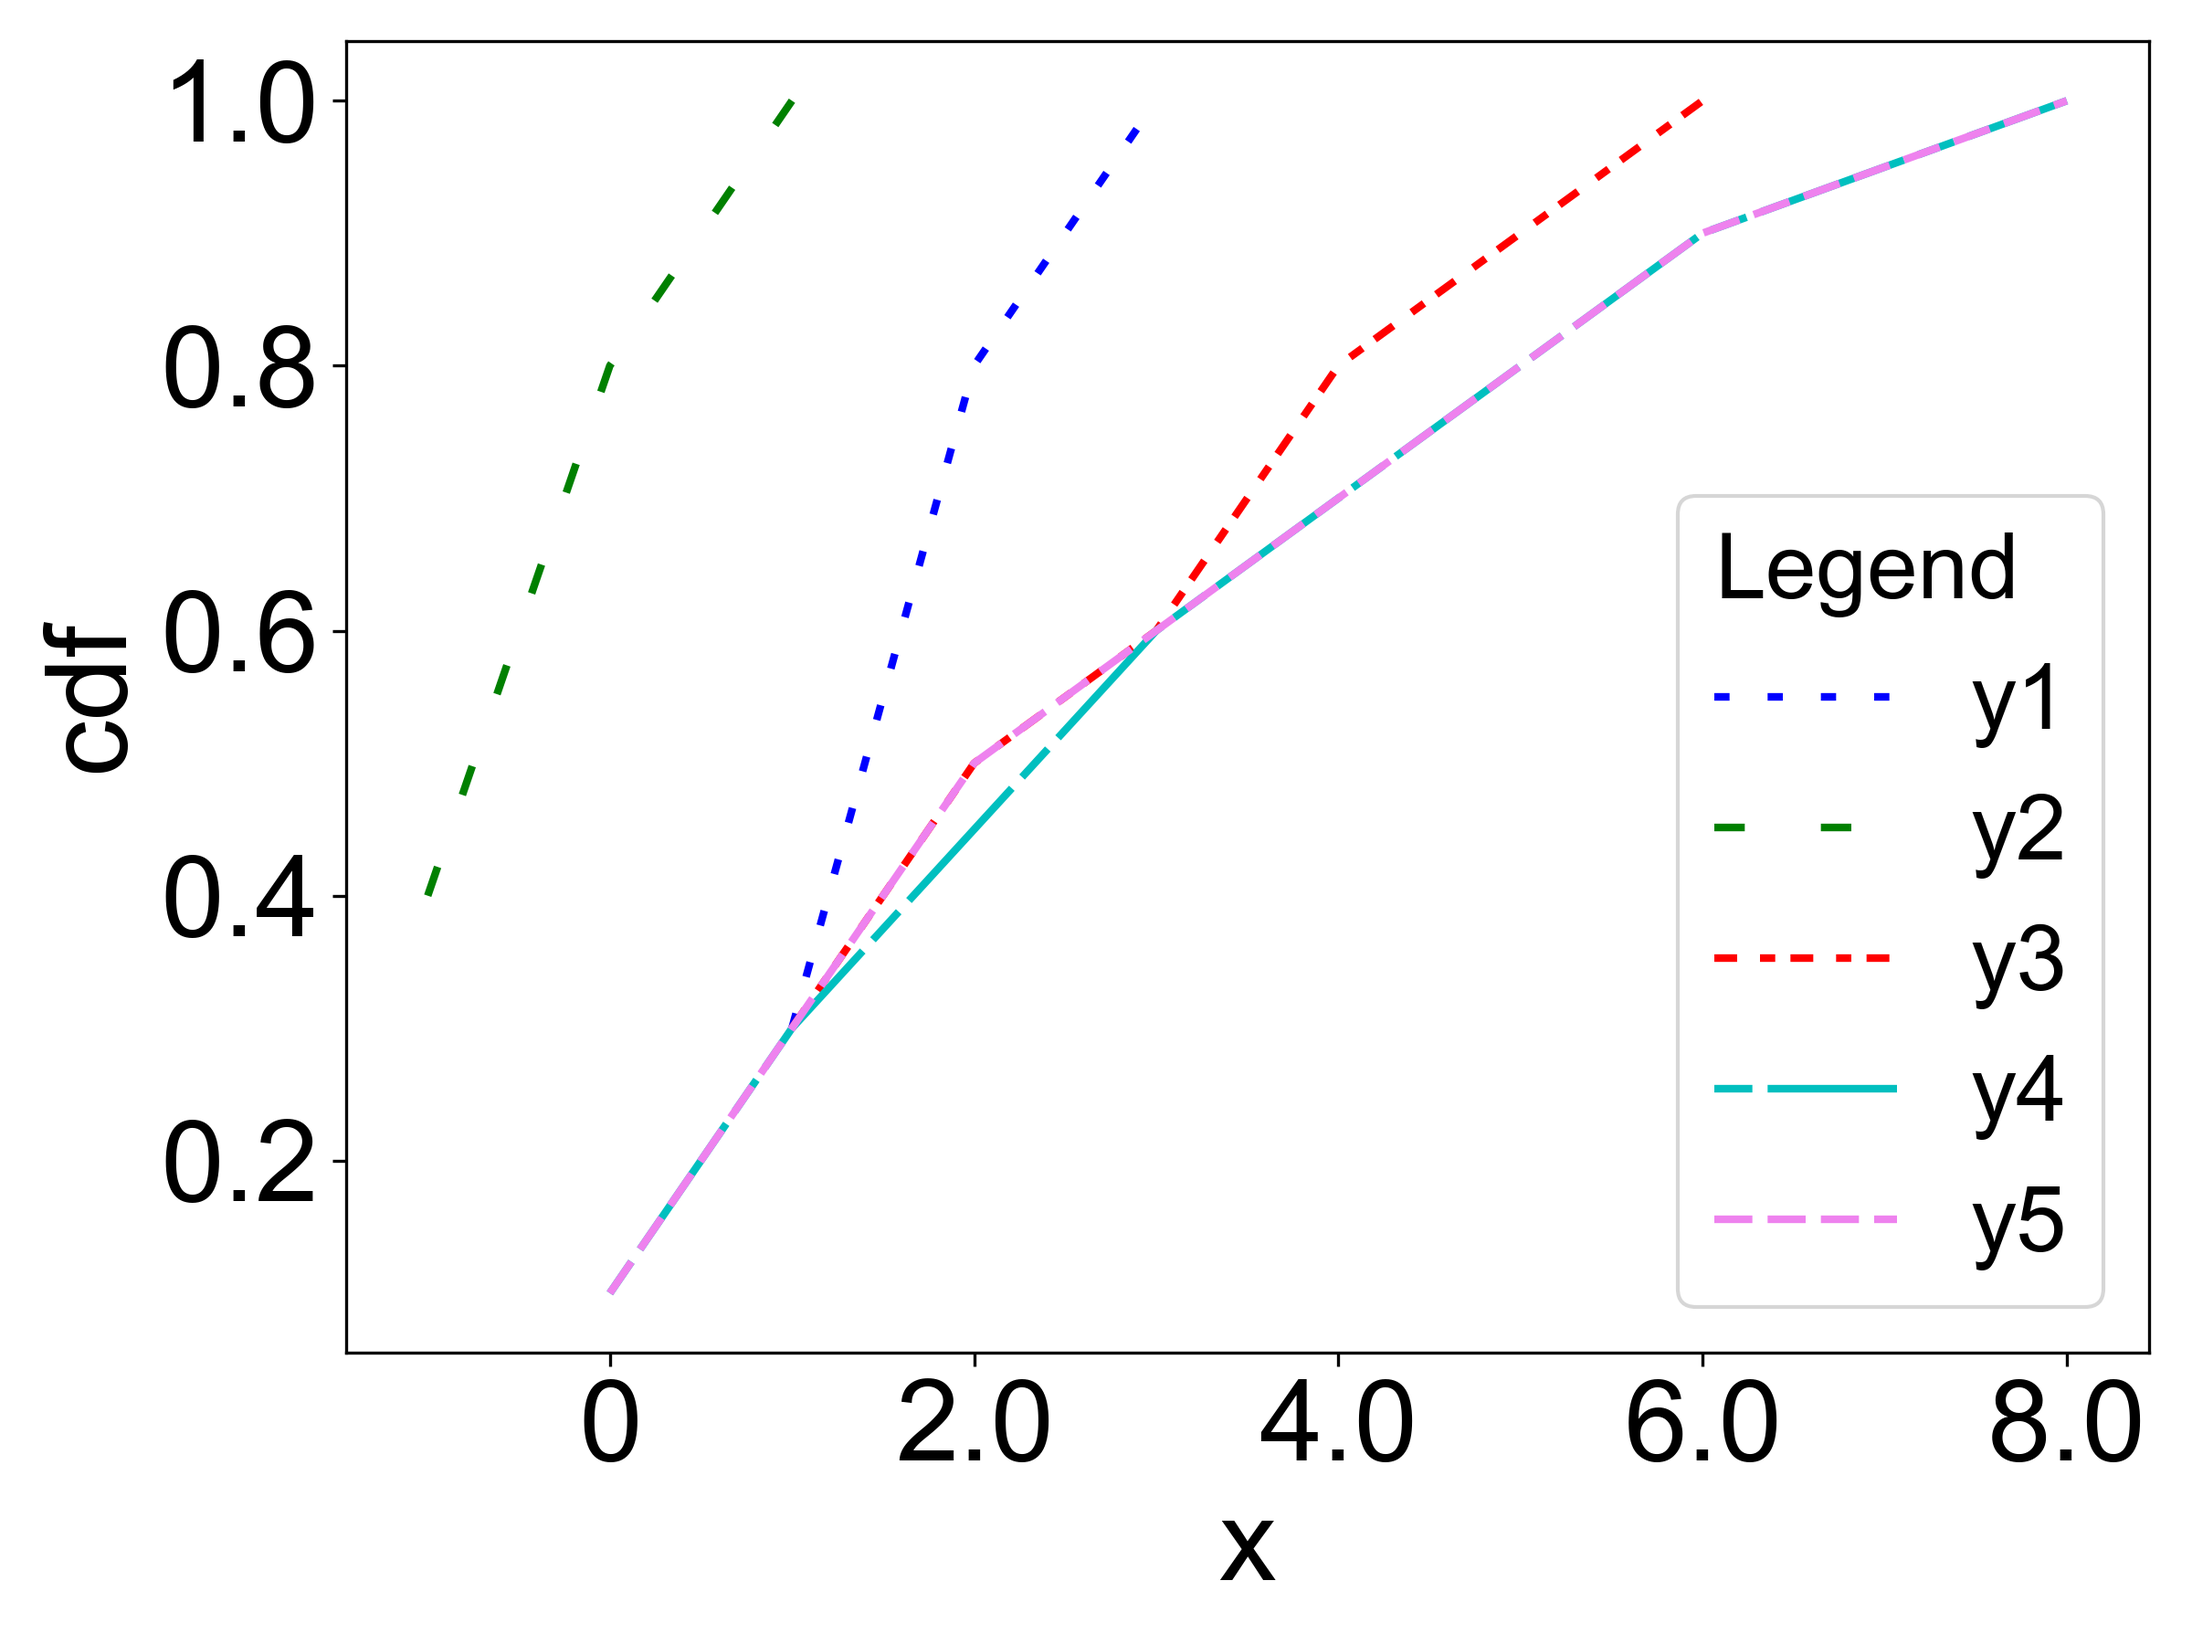
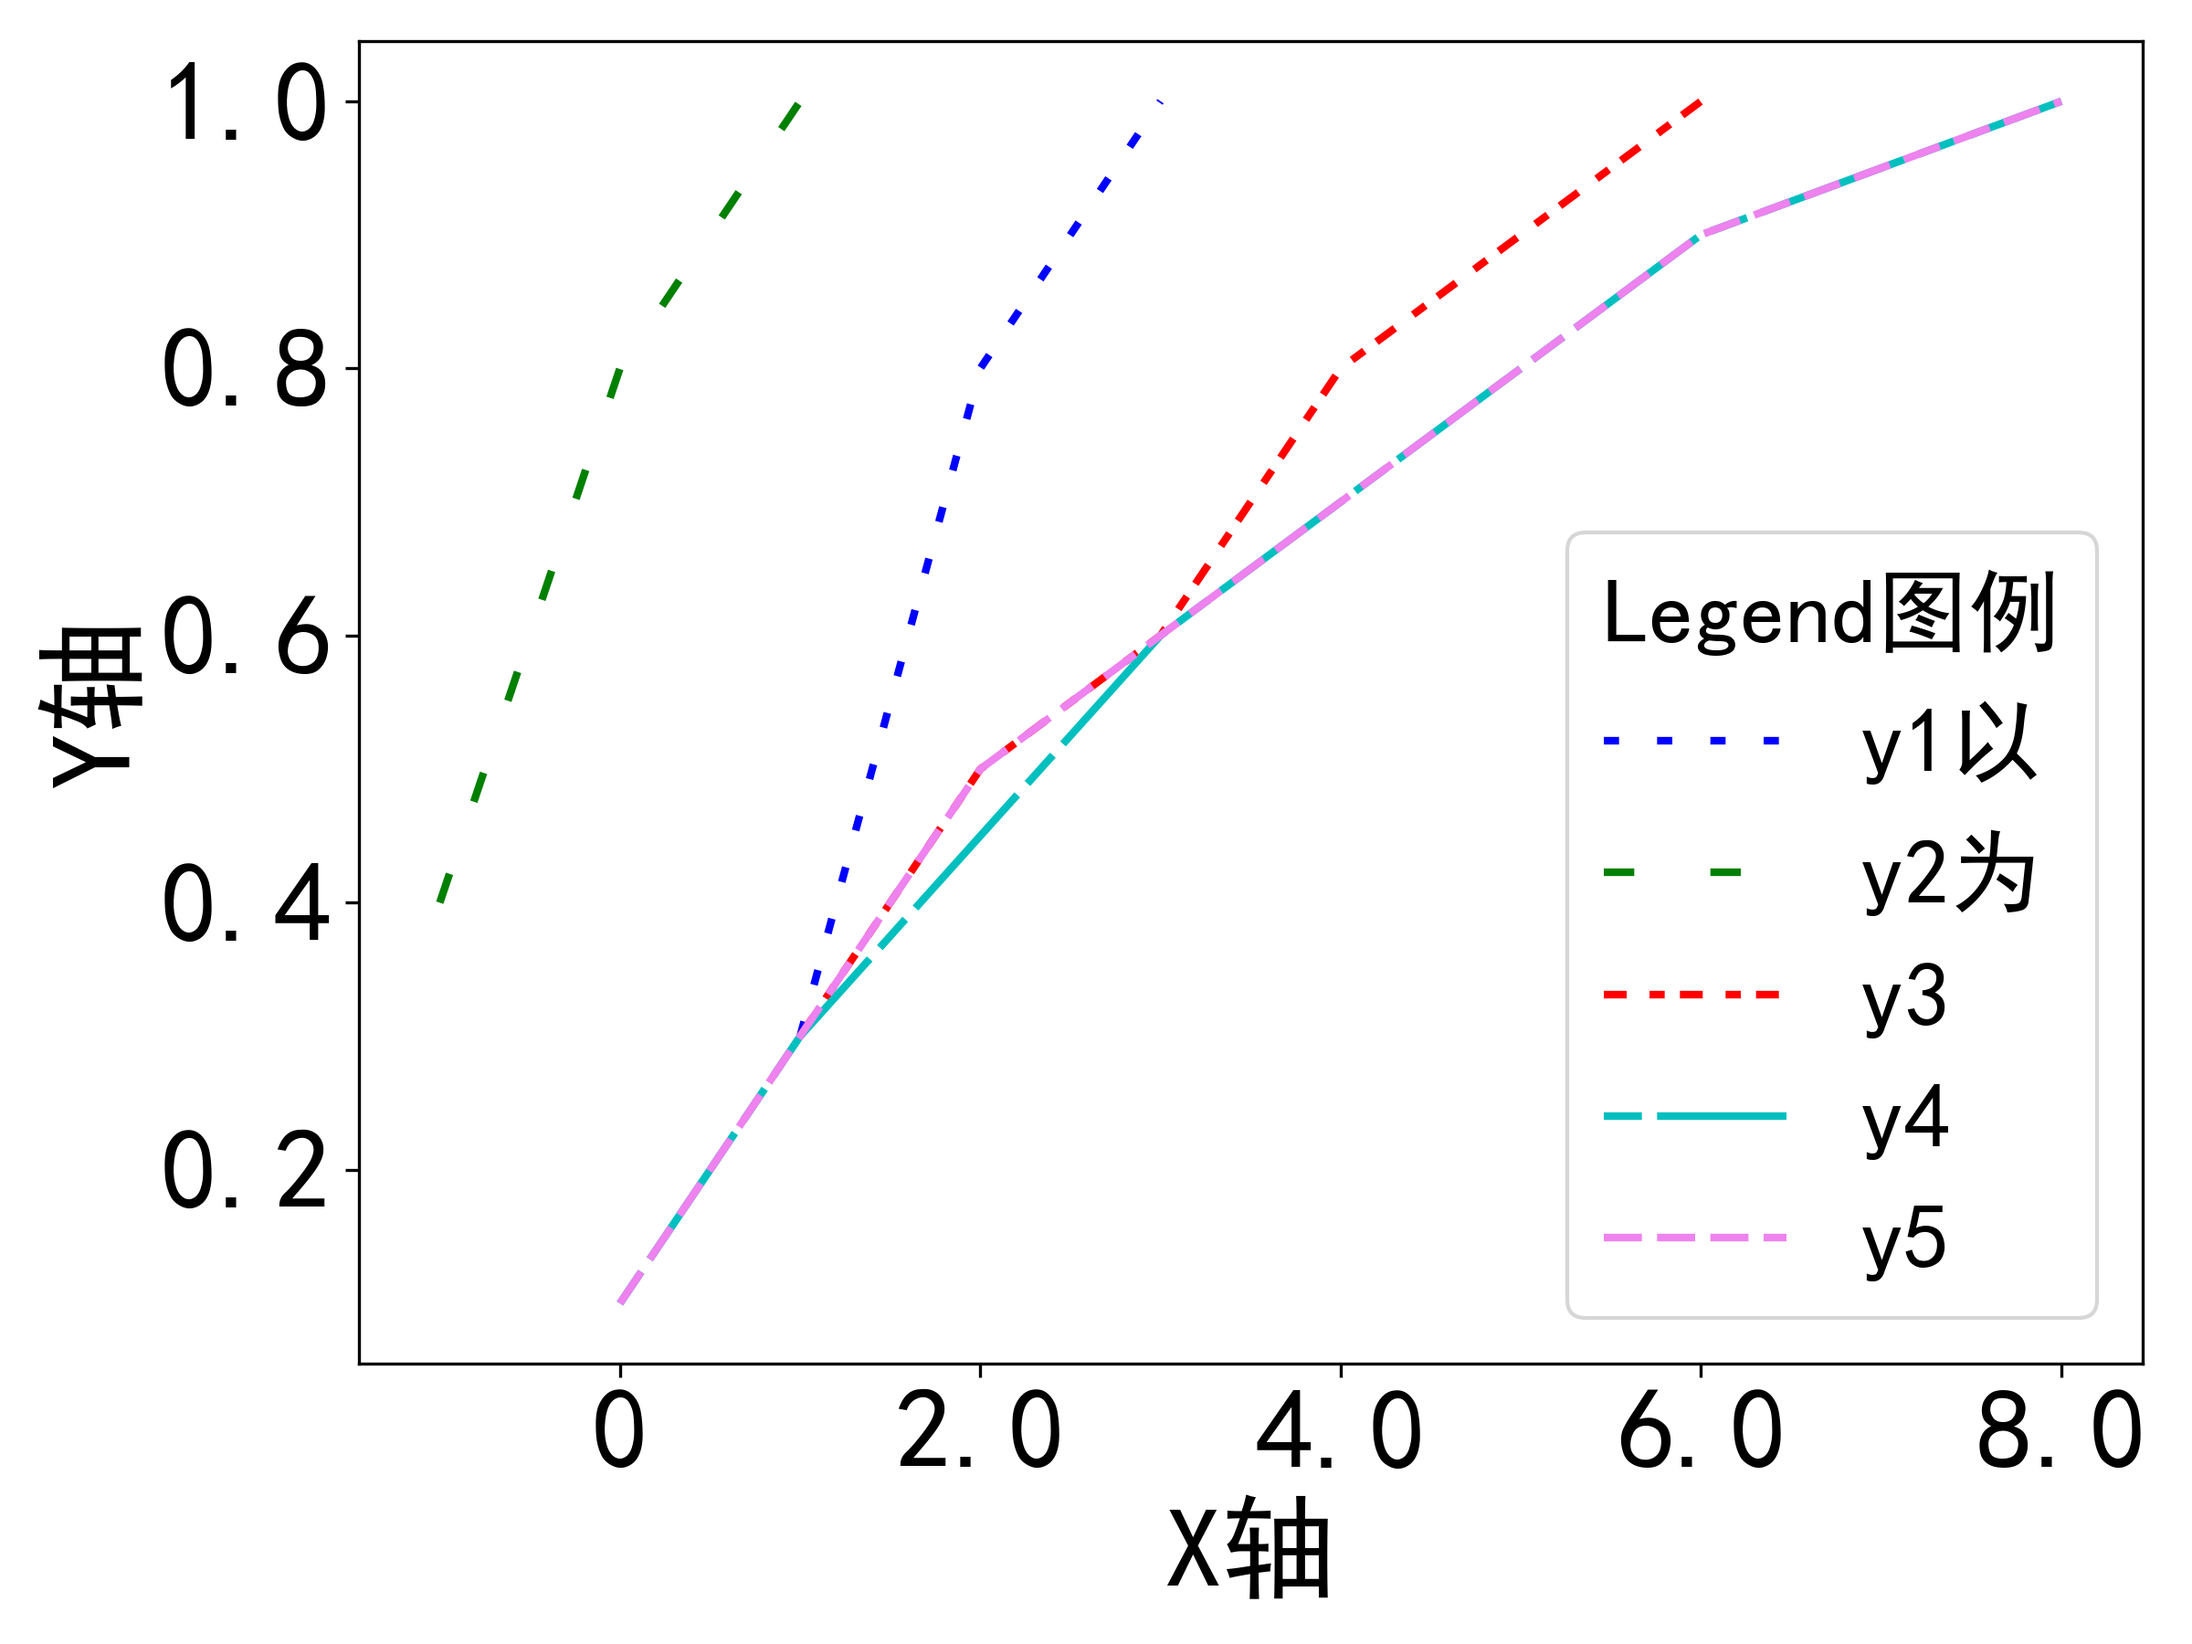
完成 cdf 第三方字体改造

diff --git a/py_plotter/plot.py b/py_plotter/plot.py
@@ -323,7 +323,8 @@ class Plotter(Pyplot_config):
         return {"x": val, "y": fs_rv_dist.cdf(val)}
 
     # 绘制 cdf 图
-    def plot_cdfs(self, x_label="x", y_label="cdf", is_no_legend=False, legend_title="legend", legend_ncol=1, bbox_to_anchor=None,
+    def plot_cdfs(self, x_label="x", y_label="cdf", is_no_legend=False, legend_title="legend", legend_ncol=1,
+                  bbox_to_anchor=None,
                   x_tick_ndigits=1, y_tick_ndigits=1, num_x_ticks=5, num_y_ticks=5,
                   legend_loc="best", cdf_data_list=None, legend_label_list=None, is_marker=False, linewidth=2, alpha=1,
                   save_root="./", filename="demo.png", is_show=False):
@@ -331,16 +332,17 @@ class Plotter(Pyplot_config):
         fig = plt.figure(figsize=self.figsize, dpi=self.dpi)
         ax = fig.add_subplot(111)
         # 设置轴的标签字体和大小
-        ax.set_xlabel(x_label, fontdict={'size': self.label_size})
-        ax.set_ylabel(y_label, fontdict={'size': self.label_size})
+        font_property = FontProperties(fname=self.font_path, size=self.label_size)
+        ax.set_xlabel(x_label, fontproperties=font_property)
+        ax.set_ylabel(y_label, fontproperties=font_property)
         # 调整 tick 的字体大小
-        plt.xticks(fontsize=self.tick_size)
-        plt.yticks(fontsize=self.tick_size)
+        font_property_ticks = FontProperties(fname=self.font_path, size=self.tick_size)
+        plt.xticks(fontsize=self.tick_size, fontproperties=font_property_ticks)
+        plt.yticks(fontsize=self.tick_size, fontproperties=font_property_ticks)
 
         # 让角标变0
         x_formatter = CustomFormatter(ndigits=x_tick_ndigits)
         y_formatter = CustomFormatter(ndigits=y_tick_ndigits)
-
 
         ax.xaxis.set_major_formatter(x_formatter)
         ax.yaxis.set_major_formatter(y_formatter)
@@ -367,17 +369,19 @@ class Plotter(Pyplot_config):
             )
 
         # 设置x轴的刻度
-        if num_x_ticks != None:
+        if num_x_ticks is not None:
             ax.xaxis.set_major_locator(MaxNLocator(integer=False, prune="both", nbins=num_x_ticks))
         # 设置y轴的刻度
-        if num_y_ticks != None:
+        if num_y_ticks is not None:
             ax.yaxis.set_major_locator(MaxNLocator(integer=False, prune="both", nbins=num_y_ticks))
 
         # 创建图例
         if not is_no_legend:
+            font_property_legend = FontProperties(fname=self.font_path, size=self.legend_size)
             legend = plt.legend(fontsize=self.legend_size, title=legend_title, loc=legend_loc, ncol=legend_ncol,
-                                bbox_to_anchor=bbox_to_anchor)
-            legend.get_title().set_fontsize(fontsize=self.legend_size)
+                                bbox_to_anchor=bbox_to_anchor, prop=font_property_legend)  # 设置图例项的字体属性
+            legend.get_title().set_fontsize(self.legend_size)  # 设置图例标题的字体大小
+            legend.get_title().set_font_properties(font_property_legend)  # 设置图例标题的字体属性
             legend._legend_box.align = "left"
 
         plt.tight_layout()
@@ -389,7 +393,6 @@ class Plotter(Pyplot_config):
             plt.show()
         # 释放内存
         plt.close()
-        pass
 
     # 绘制 box 图
     def plot_boxes(self, x: List[str] = None, box_data_list=None, legend_label_list=None, x_label="Replicas",

diff --git a/py_plotter/example.py b/py_plotter/example.py
@@ -135,9 +135,11 @@ if __name__ == "__main__":
 
     my_plotter.plot_cdfs(
         cdf_data_list=[y1, y2, y3, y4, y5],
-        legend_label_list=["y1", "y2", "y3", "y4", "y5"],
+        legend_label_list=["y1以", "y2为", "y3", "y4", "y5"],
         legend_loc="best",
-        legend_title="Legend",
+        x_label="X轴",
+        y_label="Y轴",
+        legend_title="Legend图例",
         save_root="./results",
         filename="plot_cdfs_demo"
     )
